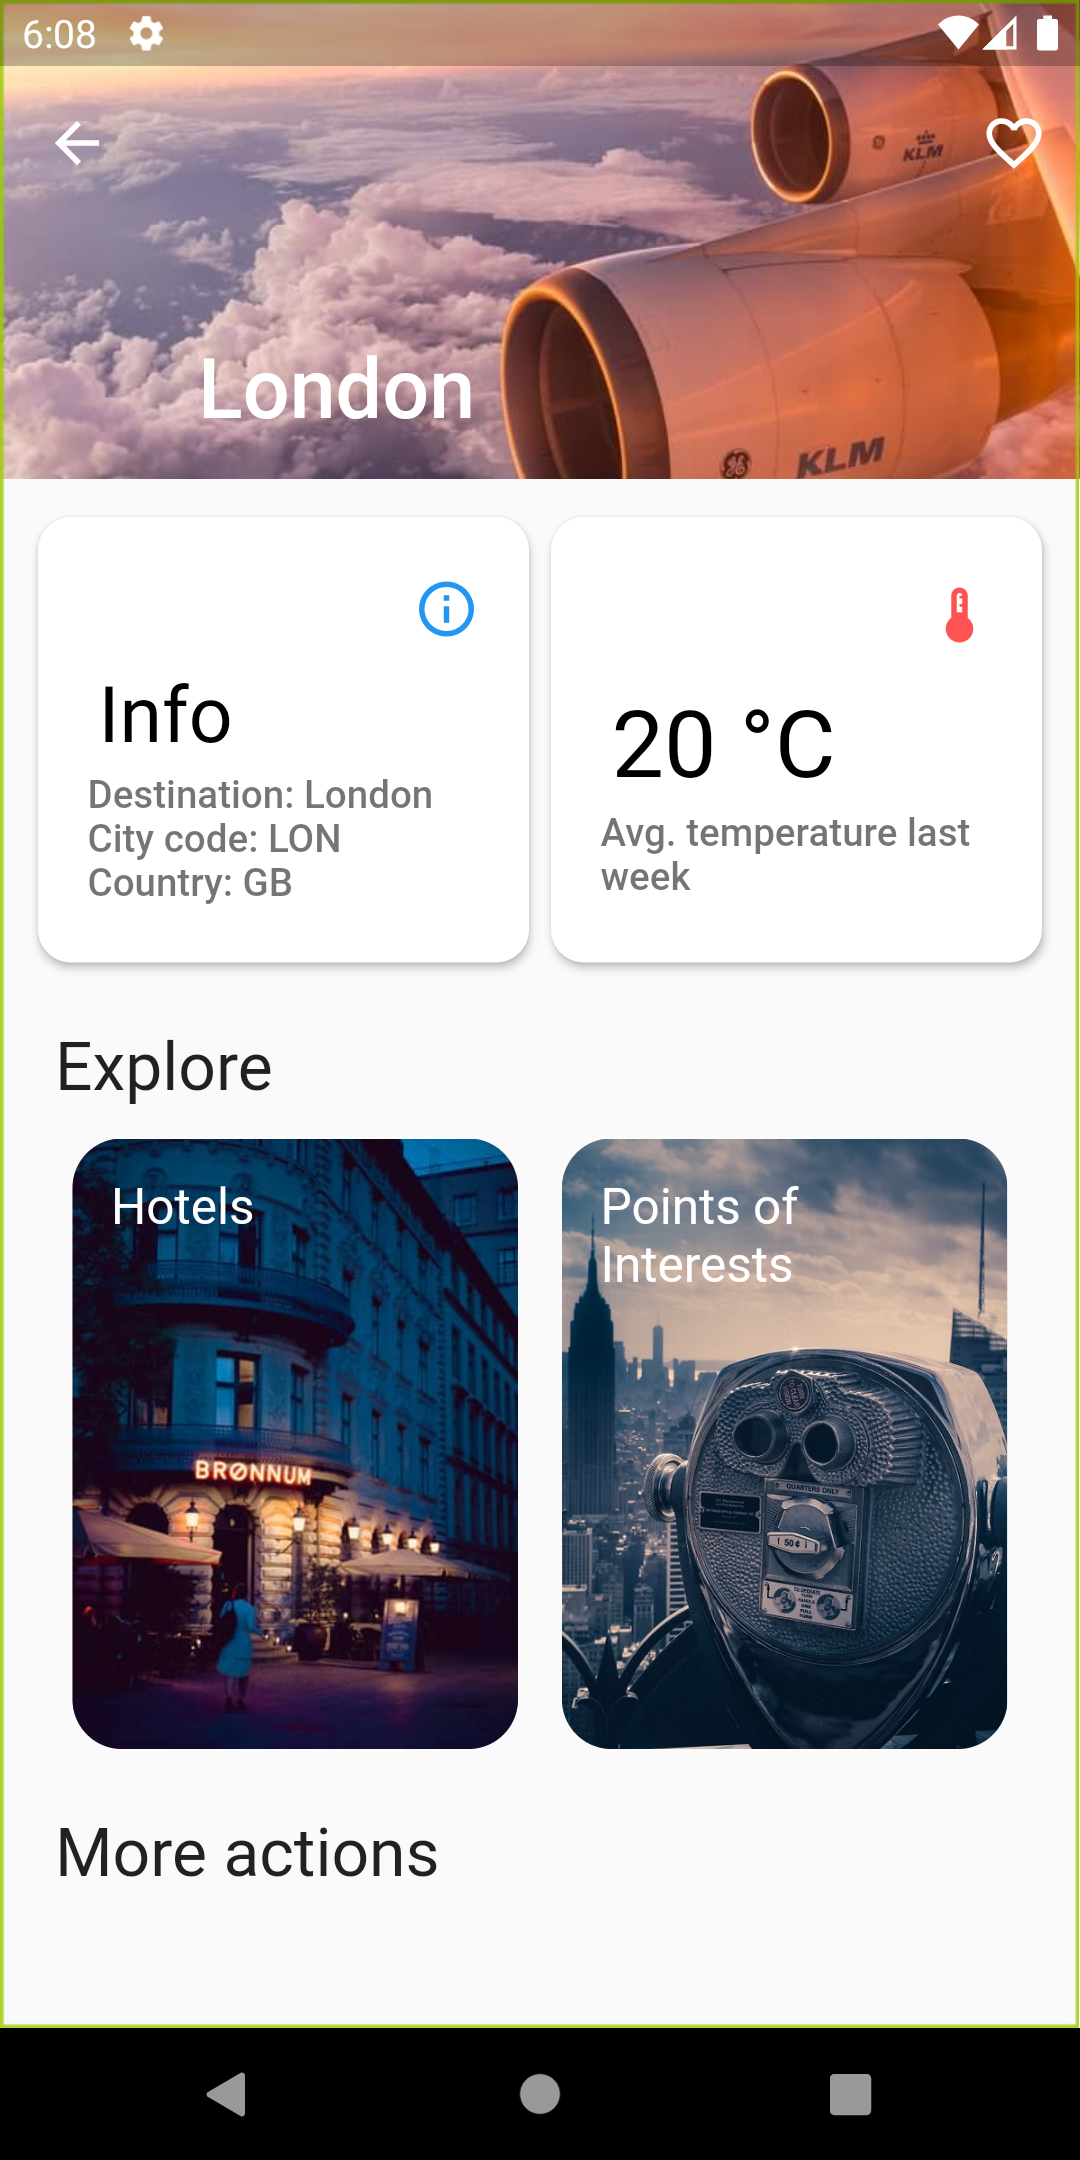
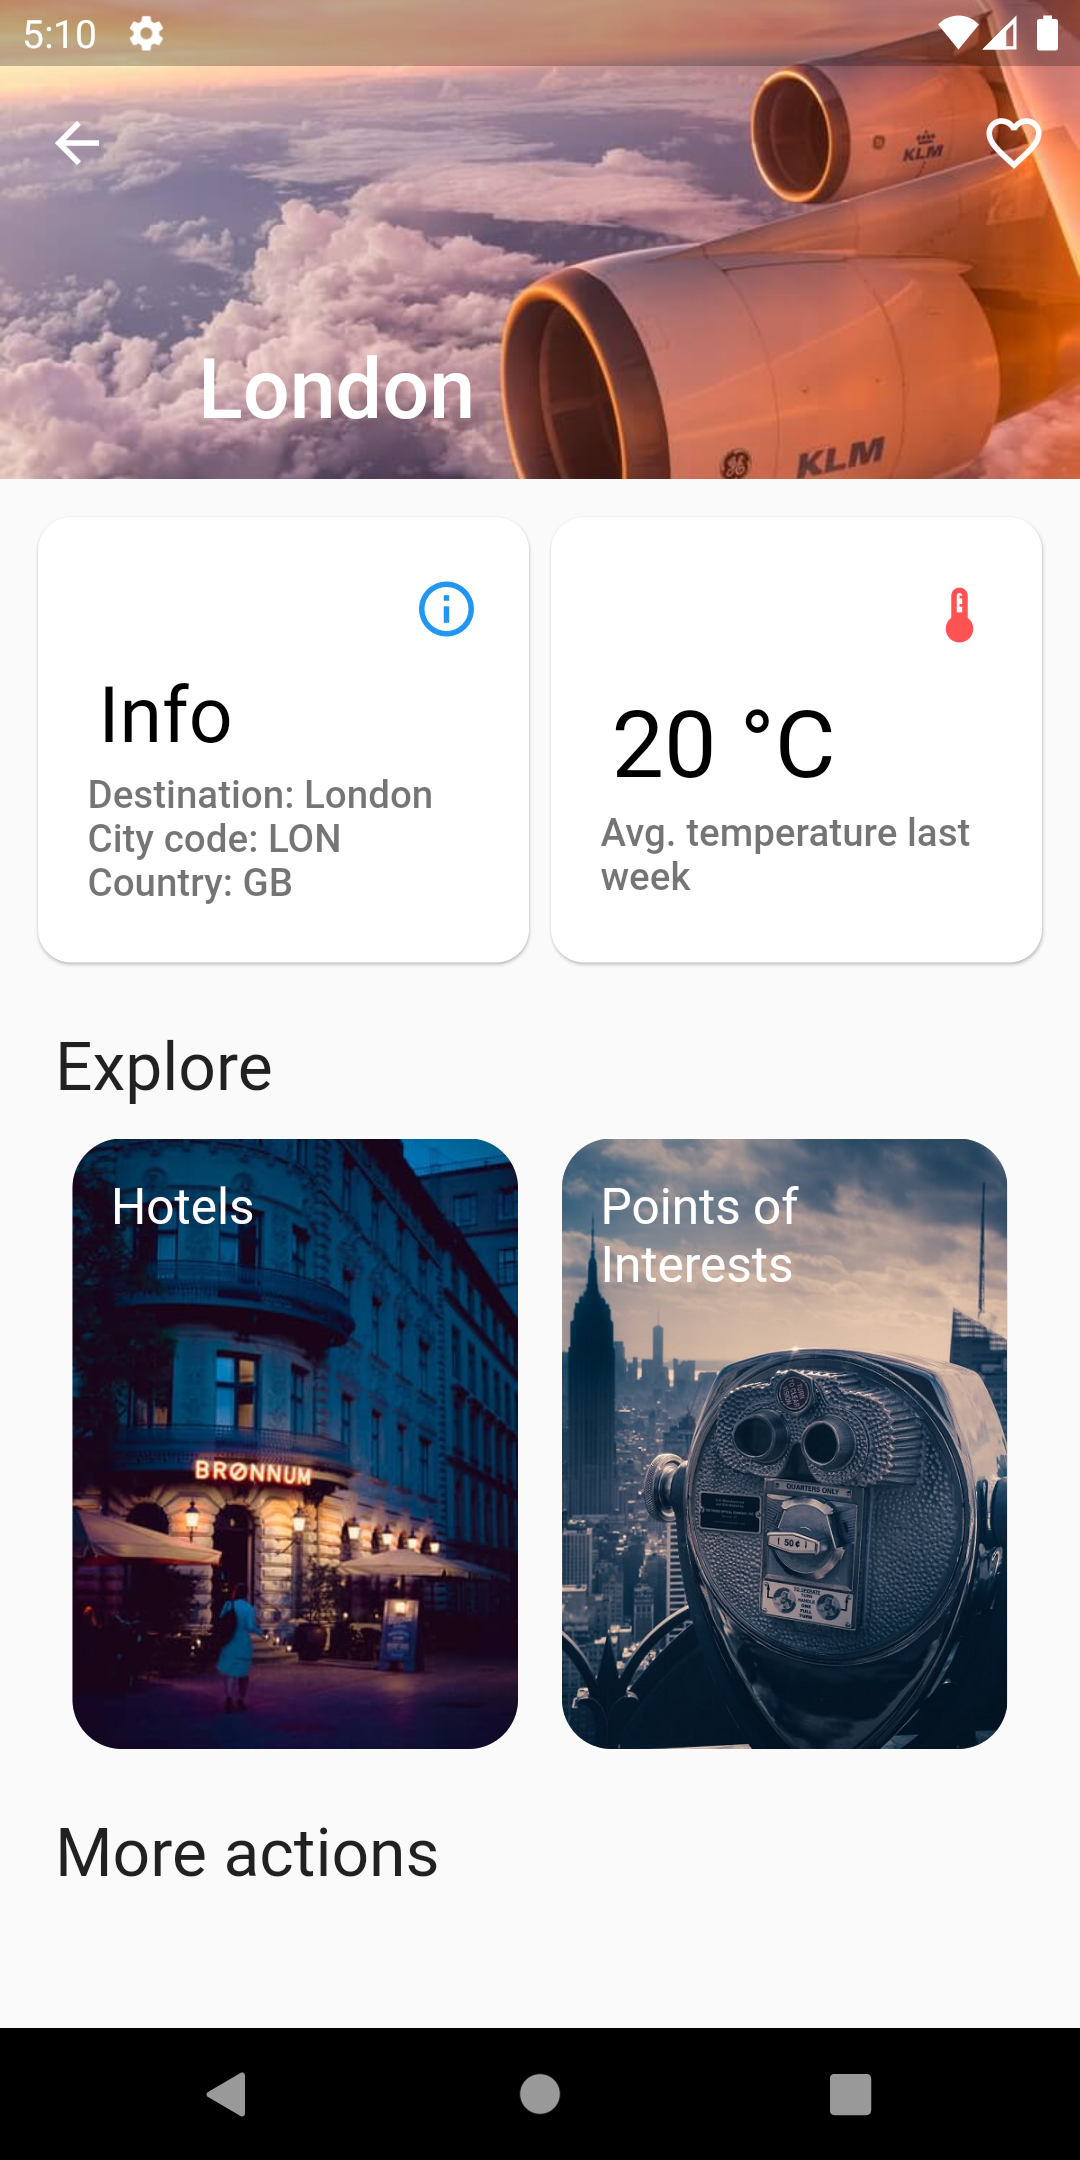
Destination Info styling

Changed region(s): [[0.0, 0.0, 0.0917, 0.9306], [0.9778, 0.0, 1.0, 0.9306]]

diff --git a/lib/presentation/pages/destination/local_widgets/rounded_icon_card.dart b/lib/presentation/pages/destination/local_widgets/rounded_icon_card.dart
@@ -13,7 +13,7 @@ class RoundedIconCard extends StatelessWidget {
     return SizedBox(
       height: 170.0,
       child: Card(
-        elevation: 2.5,
+        elevation: 1.0,
         clipBehavior: Clip.hardEdge,
         shape: RoundedRectangleBorder(
           borderRadius: BorderRadius.all(
